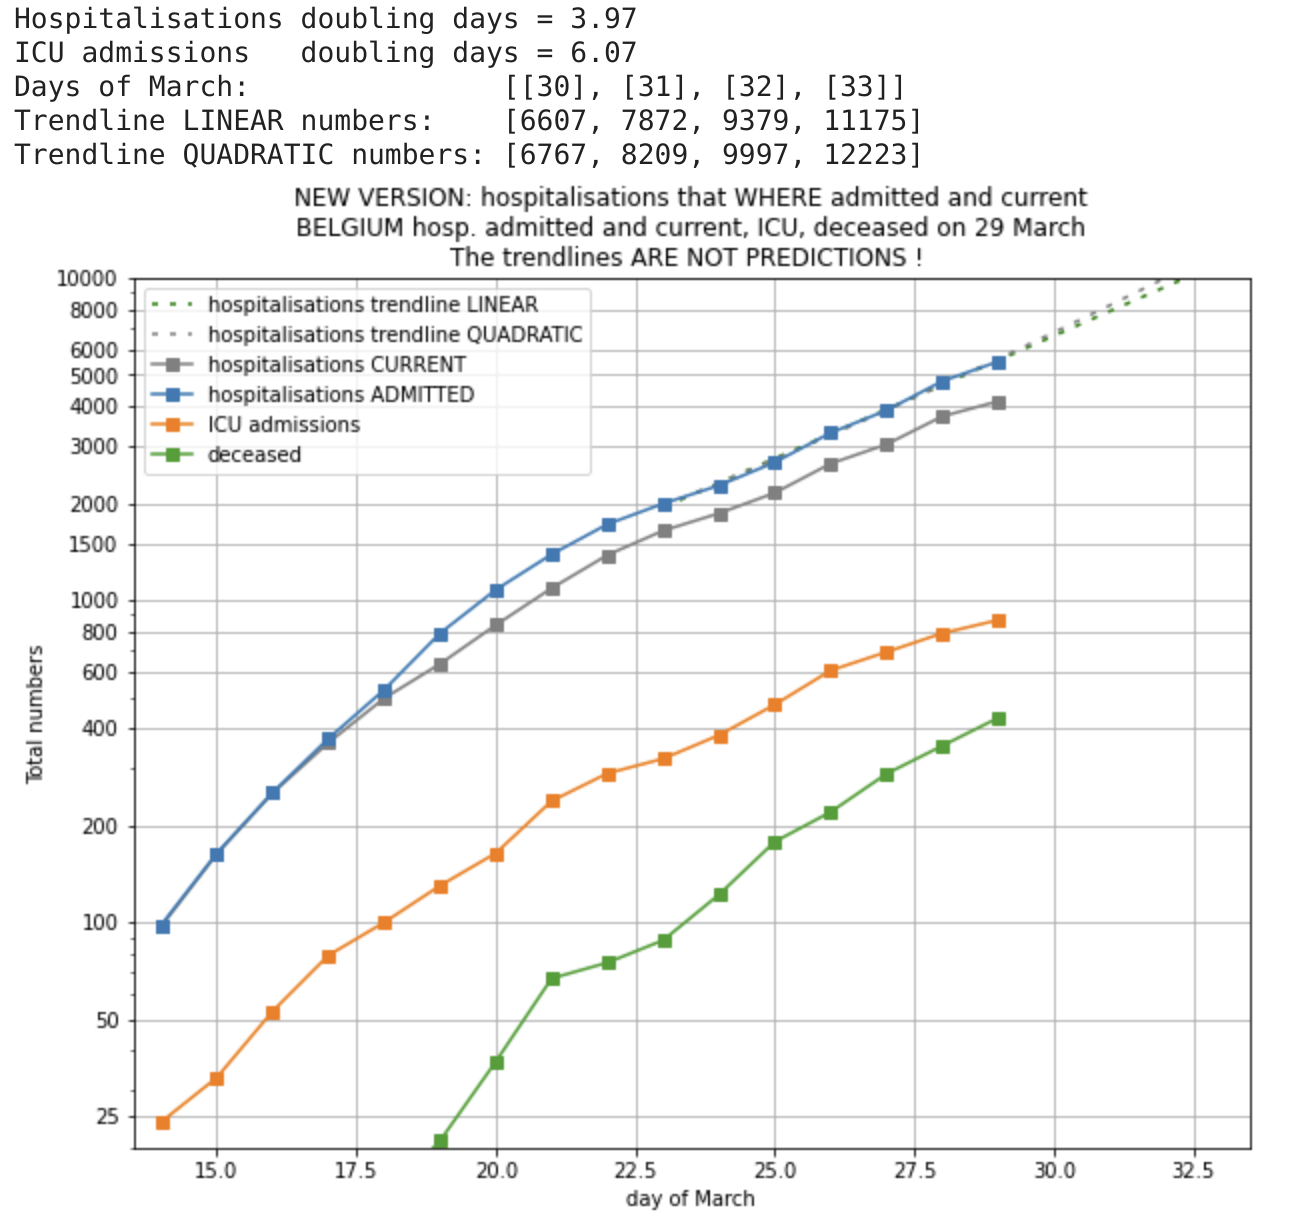
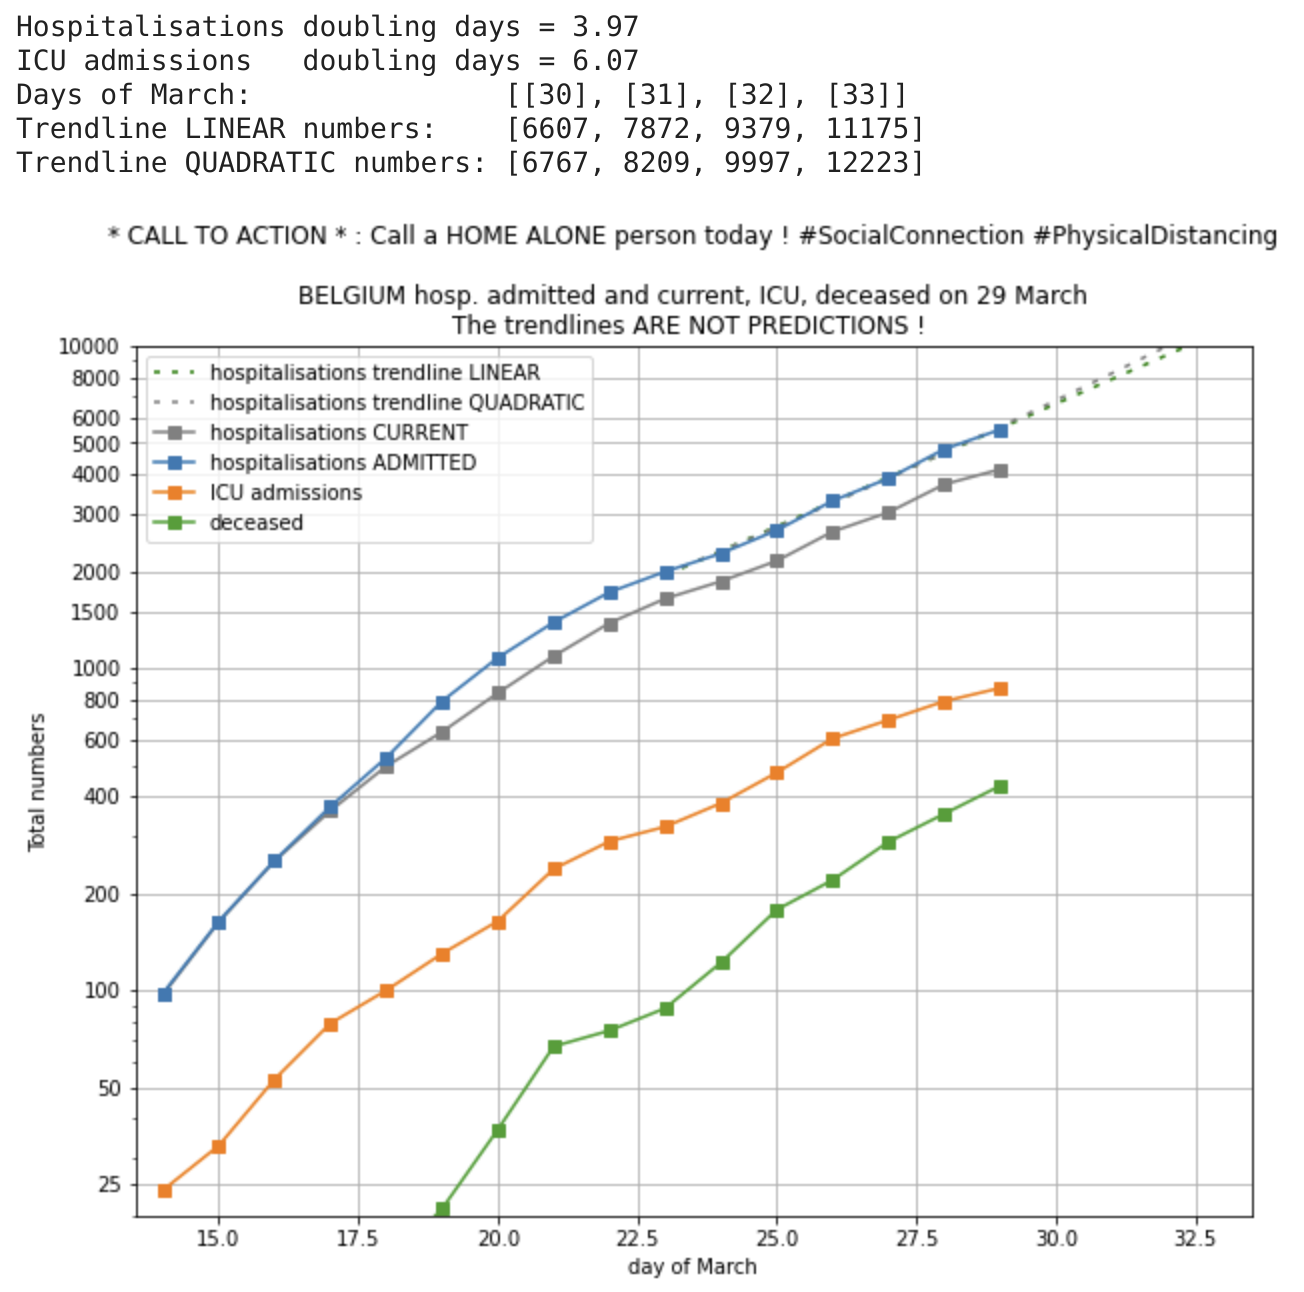
Add call to action #SocialConnection

Changed region(s): [[0.0, 0.0, 0.9877, 0.987], [0.0, 0.5244, 0.0309, 0.6477], [0.5864, 0.8019, 0.6173, 0.8636]]

diff --git a/code/Belgium/Belgium-2020-03-29.py b/code/Belgium/Belgium-2020-03-29.py
@@ -97,7 +97,7 @@ plt.plot(day_of_march, deceased, 's-', color = 'C2', label="deceased")
 
 plt.xlabel("day of March")
 plt.ylabel("Total numbers")
-plt.title(f"NEW VERSION: hospitalisations that WHERE admitted and current\n{country} hosp. admitted and current, ICU, deceased on {current_day} March\nThe trendlines ARE NOT PREDICTIONS ! ")
+plt.title(f"\n* CALL TO ACTION * : Call a HOME ALONE person today ! #SocialConnection #PhysicalDistancing\n\n{country} hosp. admitted and current, ICU, deceased on {current_day} March\nThe trendlines ARE NOT PREDICTIONS ! ")
 plt.legend()
 plt.grid()
 plt.show()

diff --git a/README.md b/README.md
@@ -2,9 +2,26 @@
 
 First Notebook is on https://colab.research.google.com/drive/1O7kH5sxu36atNYDavtEuw4Vw8Wq0SpUW
 
-First plots of these data are on https://twitter.com/peter_v around 18, 19, 20 March 2020. Some of the initial plots with only QUADRATIC trend lines where far too optimistic for the trendline :-/ . I received feedback to not show trendlines or at least use LINEAR trendlines.
+## Call to ACTION
 
-As a compromise, I am now showing LINEAR and QUADRATIC trend lines, based on the most recent 7 days.
+One thing we ALL can DO is this:
+
+
+CALL A  **HOME ALONE**  PERSON TODAY !
+
+
+Let's all contrast the #PhysicalDistancing with massive #SocialConnection and support those that
+may feel lonely because of the #PhysicalDistancing measures.
+
+And besided the "good deed", it may even make the Physical Distancing more effective: lonely people that
+feel the Social Connection, may find it slightly less hard to obeye the harsh Physical Distancing rules.
+
+Yes, I understand this is an investment of your time and attention, away from the cosy feeling at your
+home, but please consider the people that are really "Home Alone" now.
+
+I suggest that besided reporting the 11:00 am cold clinical numbers, at 8:00 pm, around the time we
+applaud for the health care workers, we also report how many people we have called today with the
+warm tag #SocialConnection.
 
 ## Belgium
 
